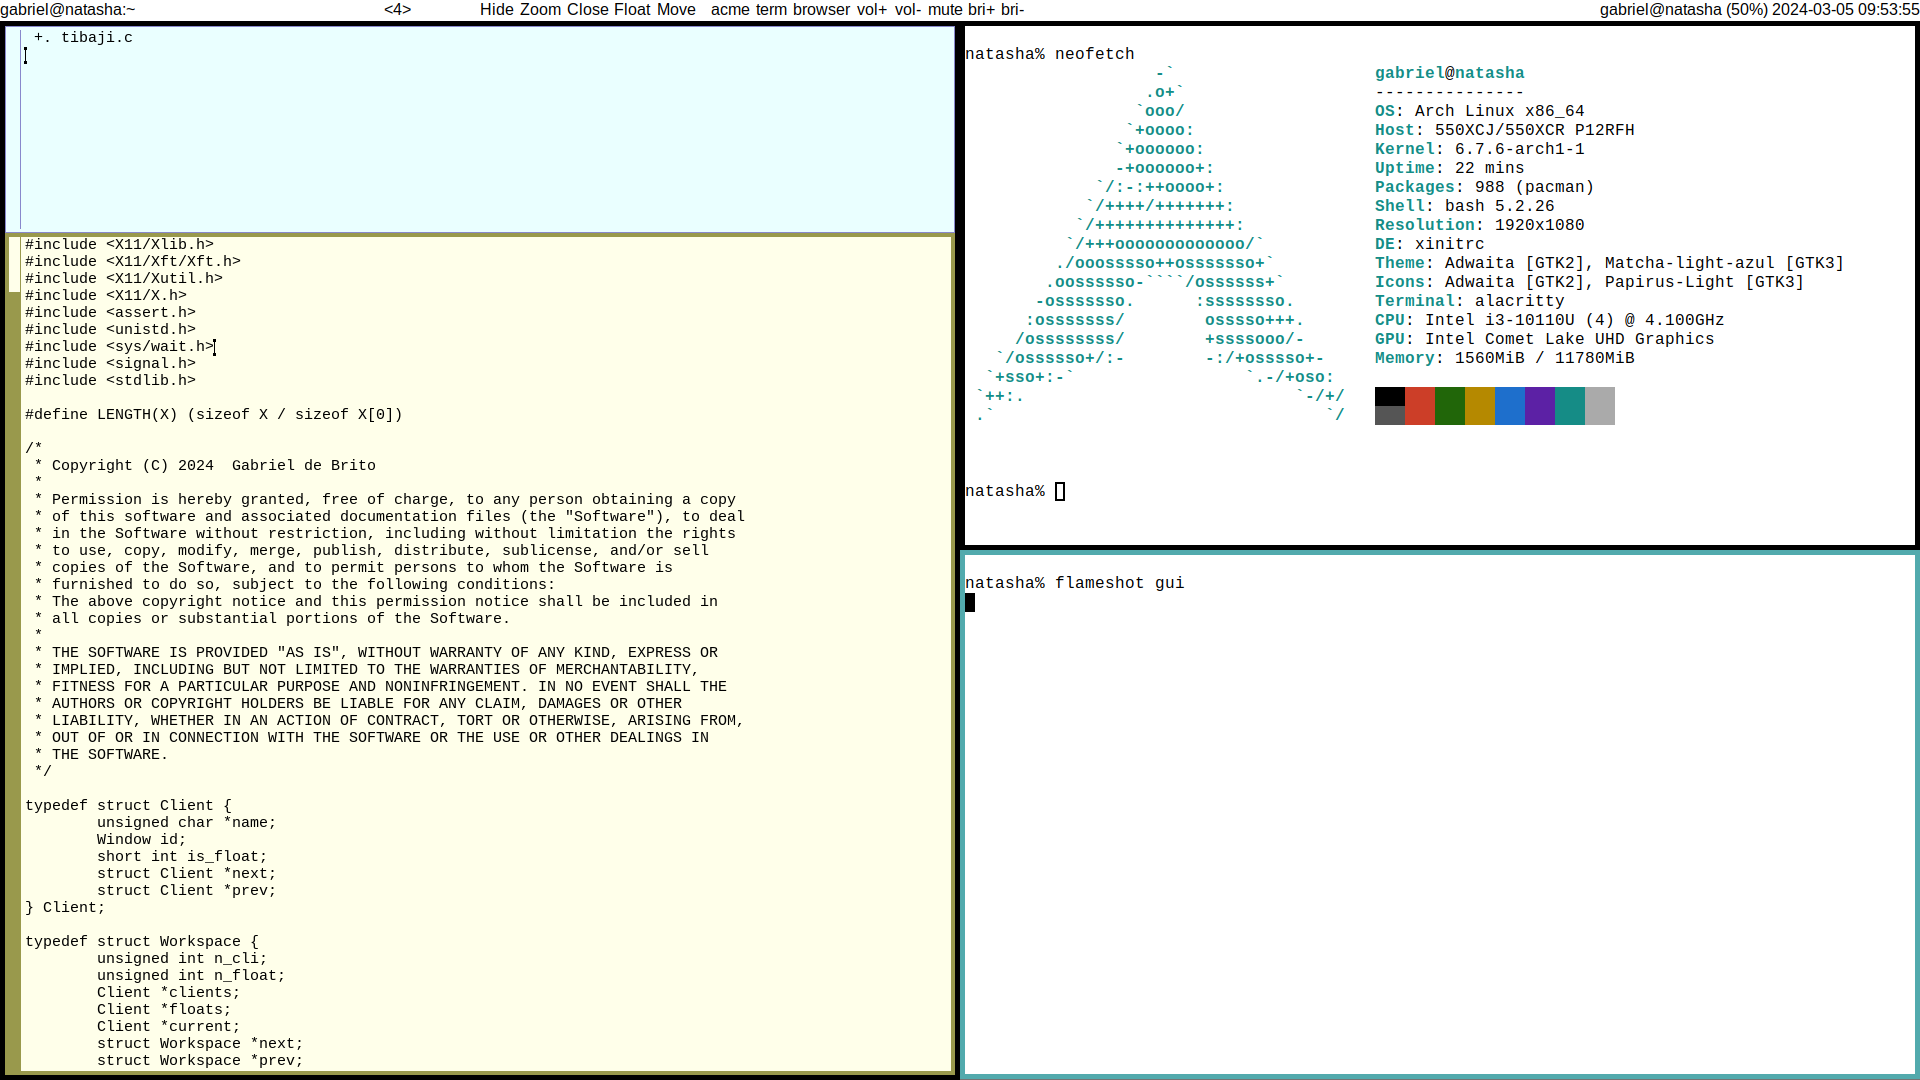
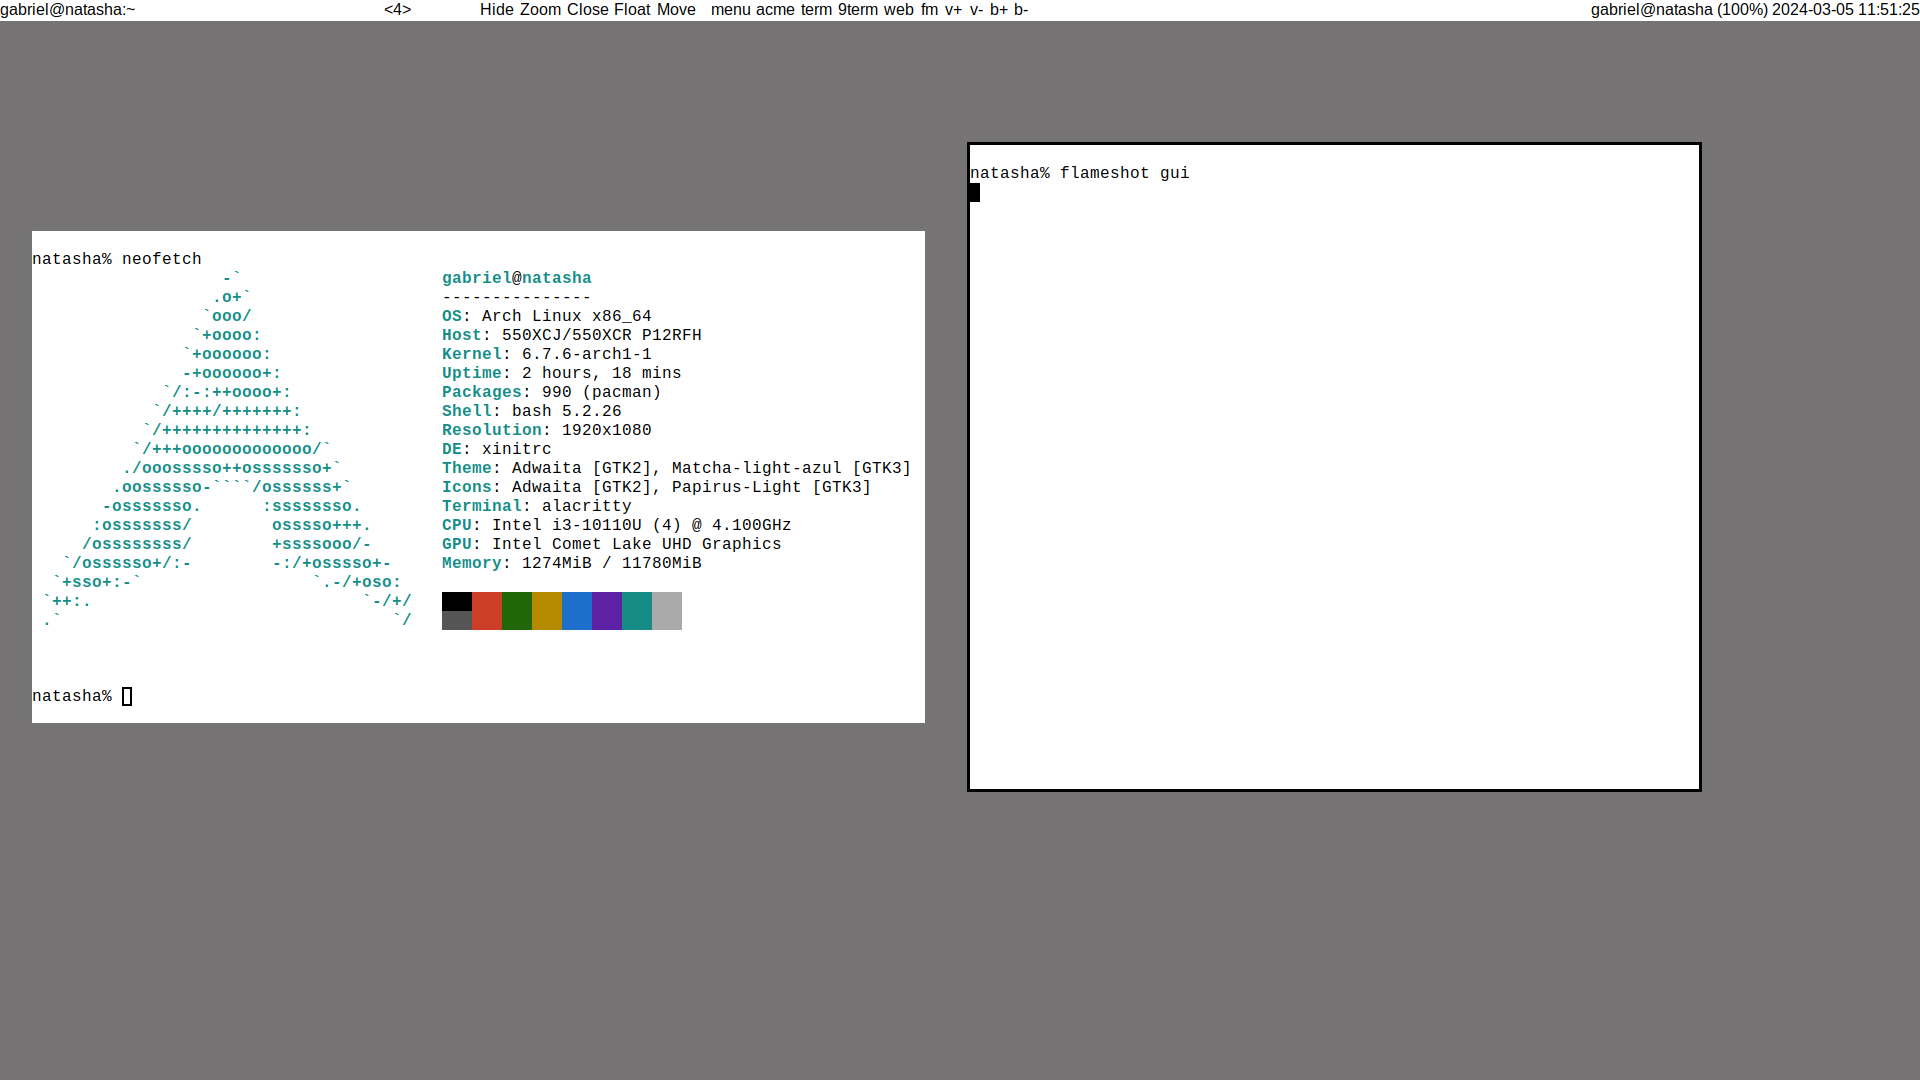
Better defaults

diff --git a/config.h b/config.h
@@ -1,12 +1,12 @@
 static const char *font = "Liberation Sans:size=12";
 
-#define BORDER_WIDTH 5
+#define BORDER_WIDTH 3
 #define BAR_PADDING 3
 /* Comment out this if you want to set the background with other
  * application. */
 #define BACKGROUND 0x757373
-#define BORDER_COLOR 0x000000
-#define BORDER_FOCUS 0x52aaad
+#define BORDER_COLOR 0x757573
+#define BORDER_FOCUS 0x000000
 #define BAR_BACKGROUND 0xffffff
 #define BAR_FOREGROUND 0X000000
 
@@ -23,23 +23,27 @@ static const char *font = "Liberation Sans:size=12";
 /* Space in pixels between buttons. */
 #define MENU_PADDING 5
 
+static const char *menu[] = { "dmenu_run", NULL };
 static const char *acme[] = { "acme", NULL };
 static const char *term[] = { "alacritty", NULL };
+static const char *term9[] = { "9term", NULL };
 static const char *brow[] = { "chromium", NULL };
+static const char *fm[] = { "thunar", NULL };
 static const char *volp[] = { "pamixer", "-i", "5", NULL };
 static const char *volm[] = { "pamixer", "-d", "5", NULL };
-static const char *mute[] = { "pamixer", "-t", NULL };
 static const char *brip[] = { "brightnessctl", "set", "+5%", NULL };
 static const char *brim[] = { "brightnessctl", "set", "5%-", NULL };
 
 /* The last two does not matter. */
 static MenuItem items[] = {
+	{ "menu", menu, 4, 0, 0 },
 	{ "acme", acme, 4, 0, 0 },
 	{ "term", term, 4, 0, 0 },
-	{ "browser", brow, 7, 0, 0 },
-	{ "vol+", volp, 4, 0, 0 },
-	{ "vol-", volm, 4, 0, 0 },
-	{ "mute", mute, 4, 0, 0 },
-	{ "bri+", brip, 4, 0, 0 },
-	{ "bri-", brim, 4, 0, 0 },
+	{ "9term", term9, 5, 0, 0 },
+	{ "web", brow, 3, 0, 0 },
+	{ "fm", fm, 2, 0, 0 },
+	{ "v+", volp, 2, 0, 0 },
+	{ "v-", volm, 2, 0, 0 },
+	{ "b+", brip, 2, 0, 0 },
+	{ "b-", brim, 2, 0, 0 },
 };

diff --git a/tibaji.c b/tibaji.c
@@ -499,6 +499,8 @@ void unmanage_hidden(Wm *wm, Client *c)
 		c->prev->next = c->next;
 	if (c->next != NULL)
 		c->next->prev = c->prev;
+	if (wm->hidden == c)
+		wm->hidden = c->next;
 }
 
 void unmanage_from_workspace(Wm *wm, Client *c, Workspace *w)

diff --git a/README.md b/README.md
@@ -9,9 +9,11 @@ empty. It's click-to-type.
 
 It's possible to put windows in floating mode and hide windows.
 
-## Obligatory screenshot
+## Obligatory screenshots
 
 ![tibaji window manager](screenshot.png)
+
+![tibaji window manager](screenshot2.png)
 
 ## Usage
 
